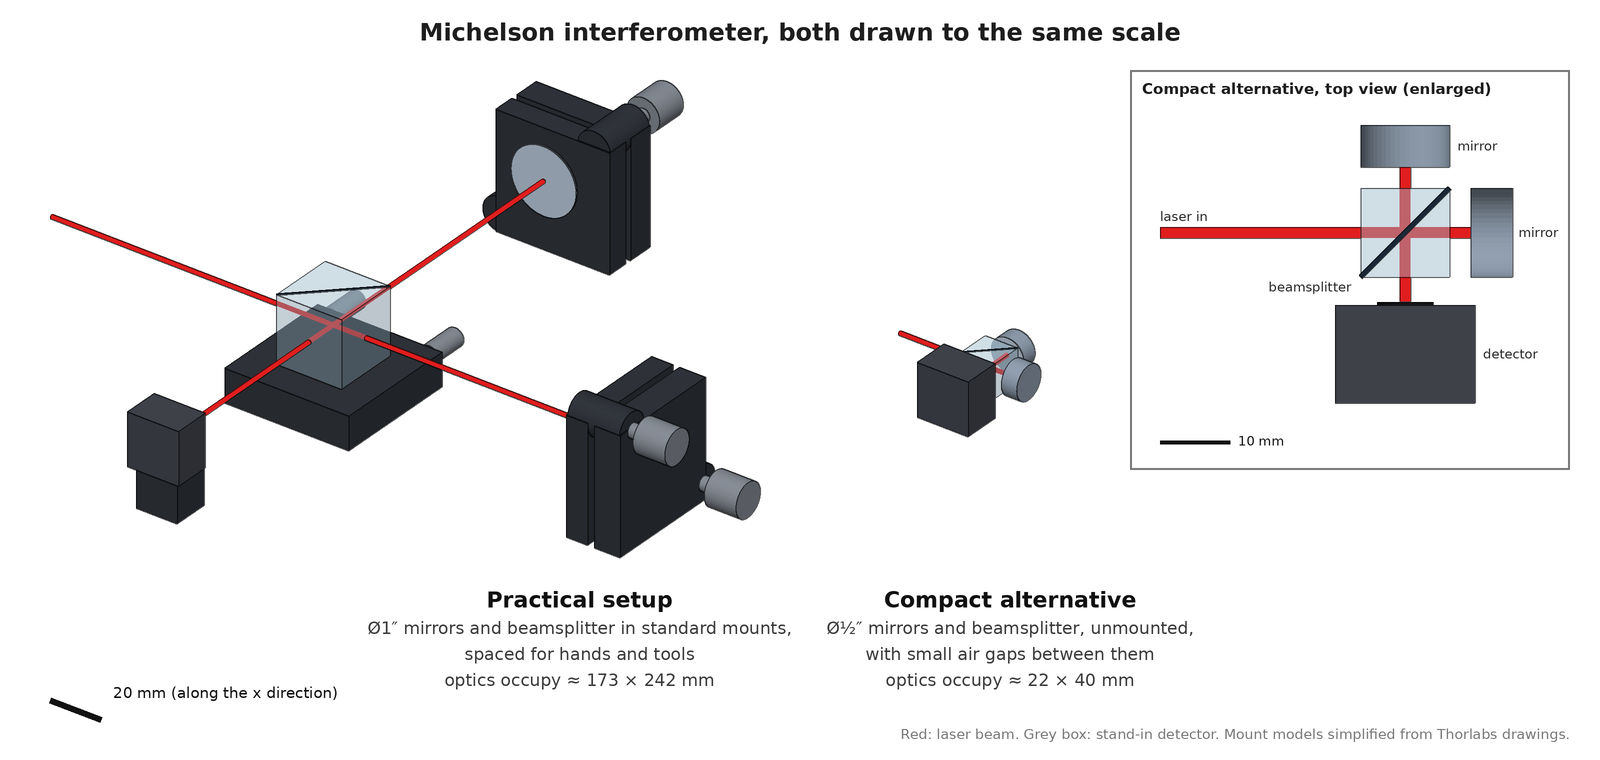
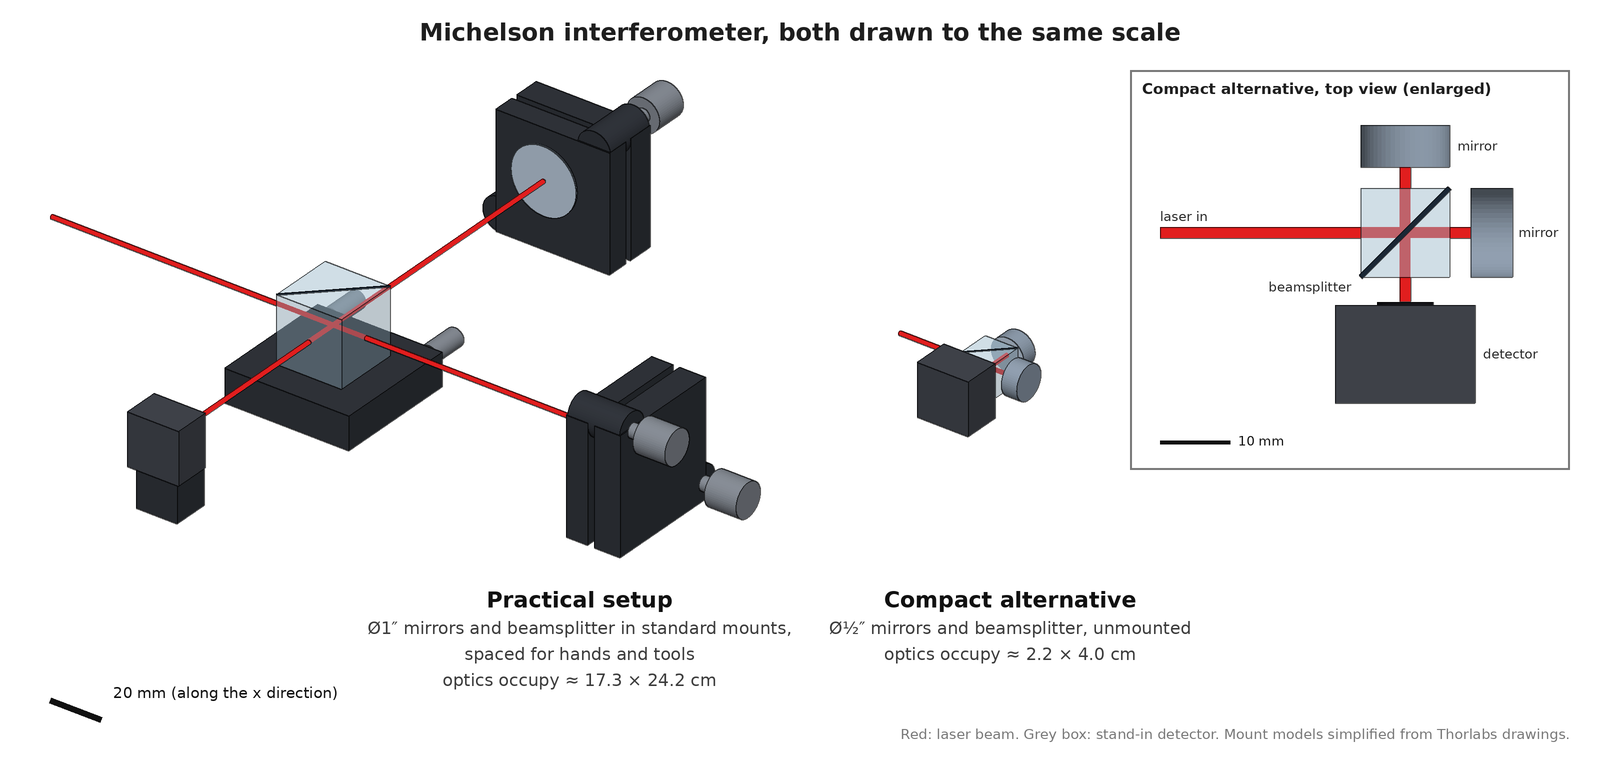
Proposal figure: cm footprints, simpler compact label
Claude-Session: https://claude.ai/code/session_01Mx3FBnwCHQgsdWuSz2wbRC

Changed region(s): [[0.5, 0.8171, 0.75, 0.9079], [0.2812, 0.8776, 0.4688, 0.9079]]

diff --git a/docs/project-proposal.md b/docs/project-proposal.md
@@ -38,9 +38,8 @@ stages) are built in a way that wastes space, time and parts:
    *A Michelson interferometer (beamsplitter cube, two mirrors and a stand-in
    detector), both versions drawn to the same scale. Left, the practical
    setup: Ø1″ optics, each in a standard mount, spaced to leave room for hands
-   and tools, occupying about 173 × 242 mm. Right, a compact alternative with
-   unmounted Ø½″ optics separated by small air gaps (inset: enlarged top
-   view), about 22 × 40 mm: roughly 50 times less table area.*
+   and tools, occupying about 17.3 × 24.2 cm. Right, a compact alternative with
+   unmounted Ø½″ optics (inset: enlarged top view), about 2.2 × 4.0 cm: roughly 50 times less table area.*
 2. **They are not fully simulated before parts are placed.** A complete
    calculation (beam propagation through every real catalog part, wave
    effects where coherence matters, sensitivity to every mount error) would

diff --git a/project-proposal.md b/project-proposal.md
@@ -38,9 +38,8 @@ stages) are built in a way that wastes space, time and parts:
    *A Michelson interferometer (beamsplitter cube, two mirrors and a stand-in
    detector), both versions drawn to the same scale. Left, the practical
    setup: Ø1″ optics, each in a standard mount, spaced to leave room for hands
-   and tools, occupying about 173 × 242 mm. Right, a compact alternative with
-   unmounted Ø½″ optics separated by small air gaps (inset: enlarged top
-   view), about 22 × 40 mm: roughly 50 times less table area.*
+   and tools, occupying about 17.3 × 24.2 cm. Right, a compact alternative with
+   unmounted Ø½″ optics (inset: enlarged top view), about 2.2 × 4.0 cm: roughly 50 times less table area.*
 2. **They are not fully simulated before parts are placed.** A complete
    calculation (beam propagation through every real catalog part, wave
    effects where coherence matters, sensitivity to every mount error) would
